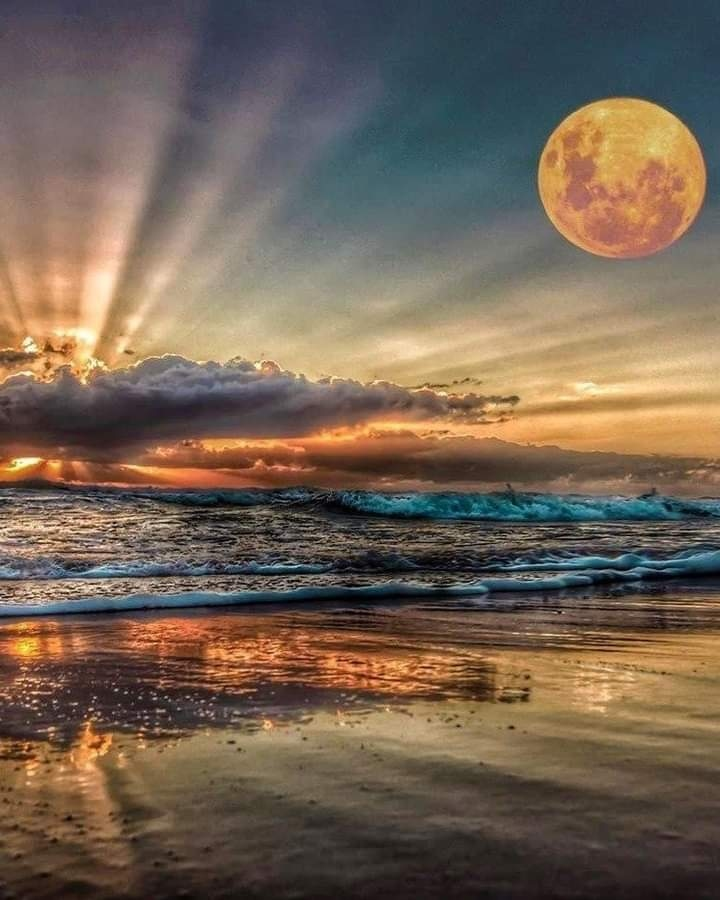
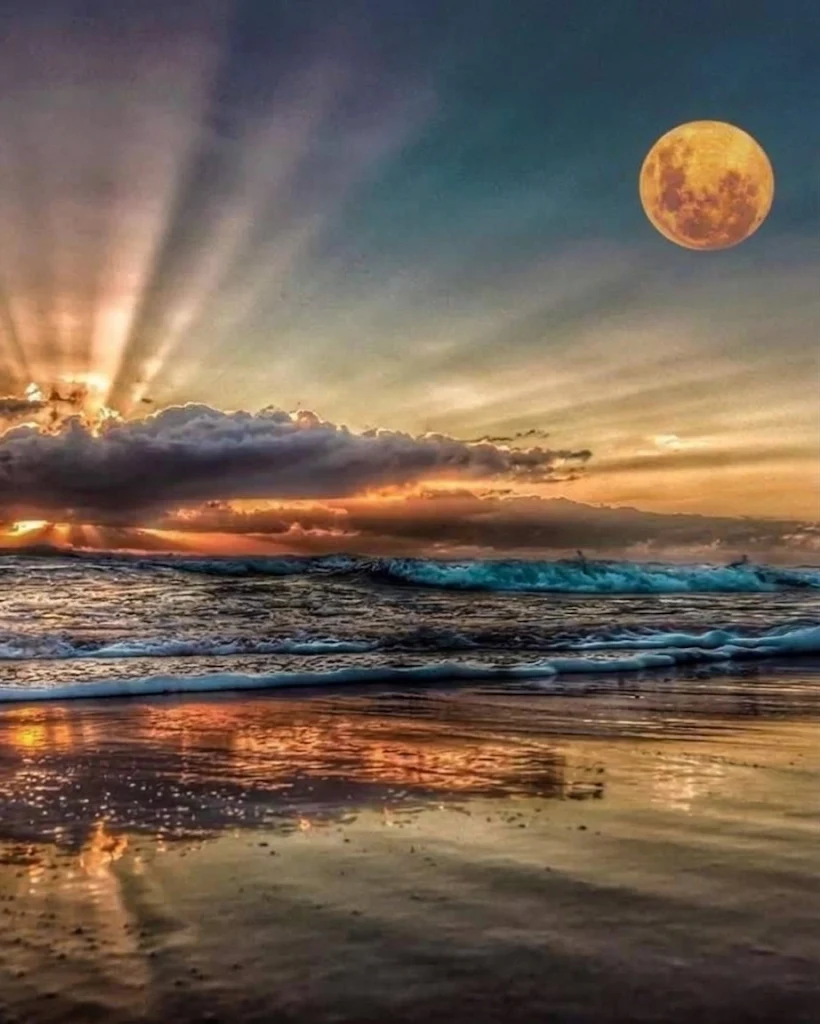
feat(hero): restore premium slideshow (uploaded image first, 5 slides, 7s interval)
- Uploaded brand image is slide 1 (/image.png), followed by 4 premium property scenes.
- Cross-fade every 7 seconds (within requested 6-8s range); reduced-motion disables autoplay.
- Single visible slide at a time (no multi-image flash); inactive slides opacity 0 + aria-hidden.
- Downloaded 4 premium house images to public/ for reliable local loading.
- Updated heroSlider regression test for new slide count and interval range.

diff --git a/frontend/src/components/public/HeroSection.tsx b/frontend/src/components/public/HeroSection.tsx
@@ -59,6 +59,24 @@ const StaggeredWords: React.FC<{ text: string; gold: boolean; delay?: number; is
   );
 };
 
+interface HeroSlide {
+  id: string;
+  background: string;
+  alt: string;
+}
+
+/** Auto-rotating hero slides — uploaded brand shot first, then premium property scenes. */
+const HERO_SLIDES: HeroSlide[] = [
+  { id: 'uploaded', background: '/image.png', alt: 'TaisarTownHub — Taiser Town Scheme 45 signature vista' },
+  { id: 'modern-villa', background: '/hero-slide-2.jpg', alt: 'Modern luxury villa with pool at Taiser Town' },
+  { id: 'residential', background: '/hero-slide-3.jpg', alt: 'Premium residential home exterior' },
+  { id: 'classic-home', background: '/hero-slide-4.jpg', alt: 'Classic family home in Scheme 45' },
+  { id: 'modern-estate', background: '/hero-slide-5.jpg', alt: 'Contemporary estate at Taiser Town' },
+];
+
+/** Slides advance every 6–8 seconds; reduced motion disables the autoplay. */
+const HERO_SLIDE_INTERVAL_MS = 7000;
+
 const TRUST_AVATARS = ['AS', 'KH', 'ST', 'MR', 'IJ'];
 
 export const HeroSection: React.FC<HeroSectionProps> = ({ onSearch }) => {
@@ -69,6 +87,8 @@ export const HeroSection: React.FC<HeroSectionProps> = ({ onSearch }) => {
   const [selectedSector, setSelectedSector] = useState<string>('All');
   const [selectedBudget, setSelectedBudget] = useState<string>('All');
   const [selectedSize, setSelectedSize] = useState<string>('All');
+
+  const [activeSlideIndex, setActiveSlideIndex] = useState(0);
 
   // Parallax: background drifts slower than scroll; content fades gently.
   const heroRef = useRef<HTMLDivElement>(null);
@@ -100,6 +120,15 @@ export const HeroSection: React.FC<HeroSectionProps> = ({ onSearch }) => {
     };
   }, [reduceMotion]);
 
+  // Hero slideshow: cross-fade between slides on an interval (6–8s).
+  useEffect(() => {
+    if (reduceMotion) return;
+    const timer = window.setInterval(() => {
+      setActiveSlideIndex((prev) => (prev + 1) % HERO_SLIDES.length);
+    }, HERO_SLIDE_INTERVAL_MS);
+    return () => window.clearInterval(timer);
+  }, [reduceMotion]);
+
   const handleSearchSubmit = (e: React.FormEvent) => {
     e.preventDefault();
     onSearch({
@@ -121,17 +150,33 @@ export const HeroSection: React.FC<HeroSectionProps> = ({ onSearch }) => {
 
   return (
     <div ref={heroRef} className="relative min-h-[92vh] flex flex-col justify-center overflow-hidden">
-      {/* Background — single responsive hero image (no multi-slide flash) */}
+      {/* Background Slideshow — cross-fade between premium property visuals every 6-8s */}
       <div className="absolute inset-0 z-0">
-        <div ref={bgRef} className="absolute inset-0 -bottom-[16%] will-change-transform">
-          <img
-            src="/image.png"
-            alt="Dramatic golden sunset rays with glowing full moon over Taiser Town Scheme 45"
-            fetchPriority="high"
-            decoding="async"
-            className="w-full h-full object-cover object-center scale-105"
-          />
-        </div>
+        {HERO_SLIDES.map((slide, index) => {
+          const isActive = index === activeSlideIndex;
+          return (
+            <div
+              key={slide.id}
+              className="absolute inset-0"
+              style={{ opacity: isActive ? 1 : 0, transition: 'opacity 1500ms ease-in-out', zIndex: isActive ? 1 : 0 }}
+              aria-hidden={!isActive}
+            >
+              <div
+                ref={isActive ? bgRef : undefined}
+                className="absolute inset-0 -bottom-[16%] will-change-transform"
+              >
+                <img
+                  src={slide.background}
+                  alt={slide.alt}
+                  fetchPriority={isActive ? 'high' : 'auto'}
+                  decoding="async"
+                  loading={isActive ? 'eager' : 'lazy'}
+                  className="w-full h-full object-cover object-center scale-105"
+                />
+              </div>
+            </div>
+          );
+        })}
         <div className="absolute inset-0 bg-gradient-to-t from-[#0B1220] via-[#0B1220]/65 to-[#0B1220]/25" />
         <div className="absolute inset-0 bg-[radial-gradient(ellipse_at_center,_var(--tw-gradient-stops))] from-transparent via-[#0B1220]/30 to-[#0B1220]/75" />
       </div>
@@ -370,6 +415,22 @@ export const HeroSection: React.FC<HeroSectionProps> = ({ onSearch }) => {
             </div>
           ))}
         </div>
+      </div>
+
+      {/* Hero Slide Switcher Dots */}
+      <div className="absolute bottom-6 right-6 z-20 hidden sm:flex items-center gap-2 bg-[#0B1220]/70 backdrop-blur-md px-3 py-1.5 rounded-full border border-[#C5A46D]/30 shadow-lg">
+        {HERO_SLIDES.map((slide, idx) => (
+          <button
+            key={slide.id}
+            onClick={() => setActiveSlideIndex(idx)}
+            aria-label={`Switch to slide ${idx + 1}`}
+            className={`transition-all duration-300 rounded-full cursor-pointer ${
+              idx === activeSlideIndex
+                ? 'w-6 h-2 bg-[#C5A46D] shadow-sm shadow-[#C5A46D]/50'
+                : 'w-2 h-2 bg-slate-500 hover:bg-slate-300'
+            }`}
+          />
+        ))}
       </div>
 
       {/* Scroll-down indicator */}

diff --git a/frontend/src/components/public/heroSlider.test.ts b/frontend/src/components/public/heroSlider.test.ts
@@ -6,30 +6,34 @@ const read = (relativePath: string): string =>
   readFileSync(new URL(relativePath, import.meta.url), 'utf8');
 
 /**
- * Regression guard for the public hero background.
+ * Regression guard for the public hero slideshow.
  *
- * The hero must render a SINGLE responsive background image (no multi-slide
- * cross-fade flash that made several images appear at once), honour reduced
- * motion, and keep the uploaded full-moon shot as the primary visual.
+ * The home header rotates through 5 premium property visuals every 6–8
+ * seconds, starting on the uploaded brand shot, then other premium scenes.
  */
-test('hero uses a single background image (no multi-slide flash)', () => {
+test('hero has a slideshow with four to five slides', () => {
   const source = read('./HeroSection.tsx');
-  // No slideshow array / interval anymore.
-  assert.equal(source.includes('HERO_SLIDES'), false, 'multi-slide array must be removed');
-  assert.equal(source.includes('HERO_SLIDE_INTERVAL_MS'), false, 'slide interval must be removed');
-  assert.equal(source.includes('setInterval'), false, 'autoplay interval must be removed');
-  // Single image source.
-  assert.ok(source.includes('src="/image.png"'), 'primary hero image must be /image.png');
+  const slideBlocks = source.split('id: ').length - 1;
+  assert.ok(slideBlocks >= 4 && slideBlocks <= 6, `unexpected slide count: ${slideBlocks}`);
+  assert.equal(source.includes('HERO_SLIDES'), true);
+  assert.equal(source.includes('HERO_SLIDE_INTERVAL_MS'), true);
+});
+
+test('hero slideshow starts on the uploaded image', () => {
+  const source = read('./HeroSection.tsx');
+  assert.ok(source.includes("background: '/image.png'"), 'first slide must use the uploaded image');
+  const interval = Number(source.match(/HERO_SLIDE_INTERVAL_MS = (\d+)/)?.[1] ?? 0);
+  assert.ok(interval >= 6000 && interval <= 8000, `interval out of 6-8s range: ${interval}`);
+  assert.equal(source.includes('setInterval'), true);
+});
+
+test('hero slideshow honours reduced motion', () => {
+  const source = read('./HeroSection.tsx');
+  assert.ok(source.includes('if (reduceMotion) return;'), 'reduced-motion guard missing');
 });
 
 test('hero background image is responsive', () => {
   const source = read('./HeroSection.tsx');
   assert.ok(source.includes('object-cover'), 'background must use object-cover');
   assert.ok(source.includes('object-center'), 'background must be centered');
-  assert.ok(source.includes('w-full h-full'), 'background must fill its container');
-});
-
-test('hero still honours reduced motion for parallax', () => {
-  const source = read('./HeroSection.tsx');
-  assert.ok(source.includes('if (reduceMotion) return;'), 'reduced-motion guard missing');
 });
